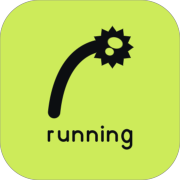
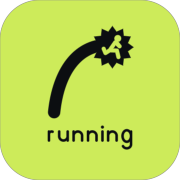
Put a runner in the badge, not a footprint
The footstrike read as two dots at every size that matters, and a footprint
means walking as readily as running. The badge is now an athletics pictogram:
knee driven forward, trailing heel kicked up — the pose that separates running
from walking — with a single arm, because two arms turn to mush once the glyph
is a 24 px dot in the app bar.

Drawn as a heavy stroked figure rather than a filled outline so it stays solid
when small, and punched out of the burst on volt grounds for the same reason
the footstrike was: a solid shape on the arc's tip merges into it.

Rejected on the way: a trailing extended leg (reads as a lunge), legs without a
torso (reads as a boot), and a footprint with toes (legible, but it is a bare
foot, not a runner).

--runner replaces --sole as the token name. Both icons regenerated.

Claude-Session: https://claude.ai/code/session_01Rpgy3MGkNVJdJS6iSkb2k8

Changed region(s): [[0.5556, 0.1944, 0.6944, 0.3333]]

diff --git a/js/ui.js b/js/ui.js
@@ -1,16 +1,16 @@
 /* Shared FORM shell pieces. The mark is the FORM arc with the sport's badge at
-   its tip: a volt burst carrying a dark footstrike — forefoot and heel, tilted
-   into the direction of travel, the shape a shoe leaves on a wet belt. Cycling
-   puts a chainring in the same place; Golf its own device. The arc takes
-   currentColor; burst and sole keep their own colours unless a surface
-   overrides them (the volt disc does, because there the accent is the ground). */
+   its tip: a volt burst carrying a runner mid-stride — knee driven forward,
+   trailing heel kicked up, which is the pose that reads as running rather than
+   walking. Cycling puts a chainring in the same place; Golf its own device.
+   The arc takes currentColor; burst and figure keep their own colours unless a
+   surface overrides them (the volt disc does — there the accent is the ground). */
 
 export const MARK = `<svg class="mark" viewBox="0 0 48 48" aria-hidden="true">
   <path d="M6 40C8 21 17 10 30 10" fill="none" stroke="currentColor" stroke-width="5.5"/>
   <path class="burst" d="M32.00 1.50 L33.86 4.05 L36.75 2.77 L37.09 5.91 L40.23 6.25 L38.95 9.14 L41.50 11.00 L38.95 12.86 L40.23 15.75 L37.09 16.09 L36.75 19.23 L33.86 17.95 L32.00 20.50 L30.14 17.95 L27.25 19.23 L26.91 16.09 L23.77 15.75 L25.05 12.86 L22.50 11.00 L25.05 9.14 L23.77 6.25 L26.91 5.91 L27.25 2.77 L30.14 4.05 Z" fill="var(--burst, #CDEB5A)"/>
-  <g class="sole" fill="var(--sole, #0C0E11)" transform="rotate(18 32 11)">
-    <ellipse cx="32.6" cy="8.8" rx="3.4" ry="2.45"/>
-    <ellipse cx="31.4" cy="13.3" rx="1.95" ry="1.7"/>
+  <g class="runner" fill="var(--runner, #0C0E11)" stroke="var(--runner, #0C0E11)"
+     stroke-width="1.85" stroke-linecap="round" stroke-linejoin="round">
+    <circle cx="34.4" cy="7.1" r="1.55" stroke="none"/><path fill="none" d="M33.3 8.8 L30.8 12.4"/><path fill="none" d="M30.8 12.4 L34 12.5 L34.7 15.4"/><path fill="none" d="M30.8 12.4 L28.9 13.6 L28.1 11.7"/><path fill="none" d="M33.3 8.8 L35.2 10.6 L33.9 9"/>
   </g>
 </svg>`;
 

diff --git a/index.html b/index.html
@@ -25,7 +25,7 @@
       <span>Coach</span></a>
 
     <a href="#/analyze" class="cta" data-r="analyze">
-      <span class="disc"><svg class="mark" viewBox="0 0 48 48" aria-hidden="true">  <path d="M6 40C8 21 17 10 30 10" fill="none" stroke="currentColor" stroke-width="5.5"/>  <path class="burst" d="M32.00 1.50 L33.86 4.05 L36.75 2.77 L37.09 5.91 L40.23 6.25 L38.95 9.14 L41.50 11.00 L38.95 12.86 L40.23 15.75 L37.09 16.09 L36.75 19.23 L33.86 17.95 L32.00 20.50 L30.14 17.95 L27.25 19.23 L26.91 16.09 L23.77 15.75 L25.05 12.86 L22.50 11.00 L25.05 9.14 L23.77 6.25 L26.91 5.91 L27.25 2.77 L30.14 4.05 Z" fill="var(--burst, #CDEB5A)"/>  <g class="sole" fill="var(--sole, #0C0E11)" transform="rotate(18 32 11)"><ellipse cx="32.6" cy="8.8" rx="3.4" ry="2.45"/><ellipse cx="31.4" cy="13.3" rx="1.95" ry="1.7"/></g></svg><span class="disclbl">FORM</span></span></a>
+      <span class="disc"><svg class="mark" viewBox="0 0 48 48" aria-hidden="true">  <path d="M6 40C8 21 17 10 30 10" fill="none" stroke="currentColor" stroke-width="5.5"/>  <path class="burst" d="M32.00 1.50 L33.86 4.05 L36.75 2.77 L37.09 5.91 L40.23 6.25 L38.95 9.14 L41.50 11.00 L38.95 12.86 L40.23 15.75 L37.09 16.09 L36.75 19.23 L33.86 17.95 L32.00 20.50 L30.14 17.95 L27.25 19.23 L26.91 16.09 L23.77 15.75 L25.05 12.86 L22.50 11.00 L25.05 9.14 L23.77 6.25 L26.91 5.91 L27.25 2.77 L30.14 4.05 Z" fill="var(--burst, #CDEB5A)"/>  <g class="runner" fill="var(--runner, #0C0E11)" stroke="var(--runner, #0C0E11)" stroke-width="1.85" stroke-linecap="round" stroke-linejoin="round"><circle cx="34.4" cy="7.1" r="1.55" stroke="none"/><path fill="none" d="M33.3 8.8 L30.8 12.4"/><path fill="none" d="M30.8 12.4 L34 12.5 L34.7 15.4"/><path fill="none" d="M30.8 12.4 L28.9 13.6 L28.1 11.7"/><path fill="none" d="M33.3 8.8 L35.2 10.6 L33.9 9"/></g></svg><span class="disclbl">FORM</span></span></a>
 
     <a href="#/journey" data-r="journey">
       <svg class="nico" viewBox="0 0 24 24"><path d="M6 21V4"/><path d="M6 4.5h10.5L14 8.5l2.5 4H6"/></svg>

diff --git a/css/app.css b/css/app.css
@@ -148,13 +148,13 @@ label{font-family:var(--mono);font-size:11px;letter-spacing:.14em;text-transform
 /* centre action */
 .nav a.cta{gap:0;color:var(--ink)}
 /* On the volt disc the accent IS the ground, so the mark inverts: the burst
-   goes dark and the footstrike is punched back out in volt. Dropping the burst
-   and darkening the sole (which is what Cycling does with its chainring) would
-   merge two solid shapes into the arc's tip and read as a blob — a cog's teeth
-   survive that, a footprint's silhouette does not. */
+   goes dark and the runner is punched back out in volt. Dropping the burst and
+   darkening the figure (which is what Cycling does with its chainring) would
+   merge it into the arc's tip and read as a blob — a cog's teeth survive that,
+   a running figure's silhouette does not. */
 .nav a.cta .disc{
   width:60px;height:60px;border-radius:50%;background:var(--volt);
-  color:var(--ground);--burst:#0C0E11;--sole:#CDEB5A;
+  color:var(--ground);--burst:#0C0E11;--runner:#CDEB5A;
   display:flex;flex-direction:column;align-items:center;justify-content:center;gap:1px;
   box-shadow:0 8px 22px rgba(205,235,90,.26);
 }

diff --git a/README.md b/README.md
@@ -134,11 +134,17 @@ force precisely because it is never a judgement about you. That also means the
 on-video grammar is identical across the three apps, so the shared report shell
 transfers with nothing to reconcile.
 
-The mark is the FORM arc with a footstrike at its tip. On dark grounds the burst
-is volt and the sole is dark; on volt grounds (the nav disc, the app icon) it
-inverts — dark burst, sole punched back out — because two solid shapes on the
-arc's tip merge into a blob. A chainring's teeth survive that; a footprint's
-silhouette does not.
+The mark is the FORM arc with a runner mid-stride at its tip — knee driven
+forward, trailing heel kicked up, which is the pose that separates running from
+walking. On dark grounds the burst is volt and the figure is dark; on volt
+grounds (the nav disc, the app icon) it inverts — dark burst, figure punched
+back out — because a solid shape on the arc's tip merges into a blob. A
+chainring's teeth survive that; a running figure's silhouette does not.
+
+The badge is drawn as a heavy stroked pictogram rather than a filled outline so
+it stays solid at 24 px in the app bar, where any glyph is really just a
+textured dot. It is authored once in `js/ui.js`; `assets/icon.svg` and the
+rasteriser that produces `assets/icon-180.png` carry the same coordinates.
 
 ## Voice coach setup (one secret, set once)
 
